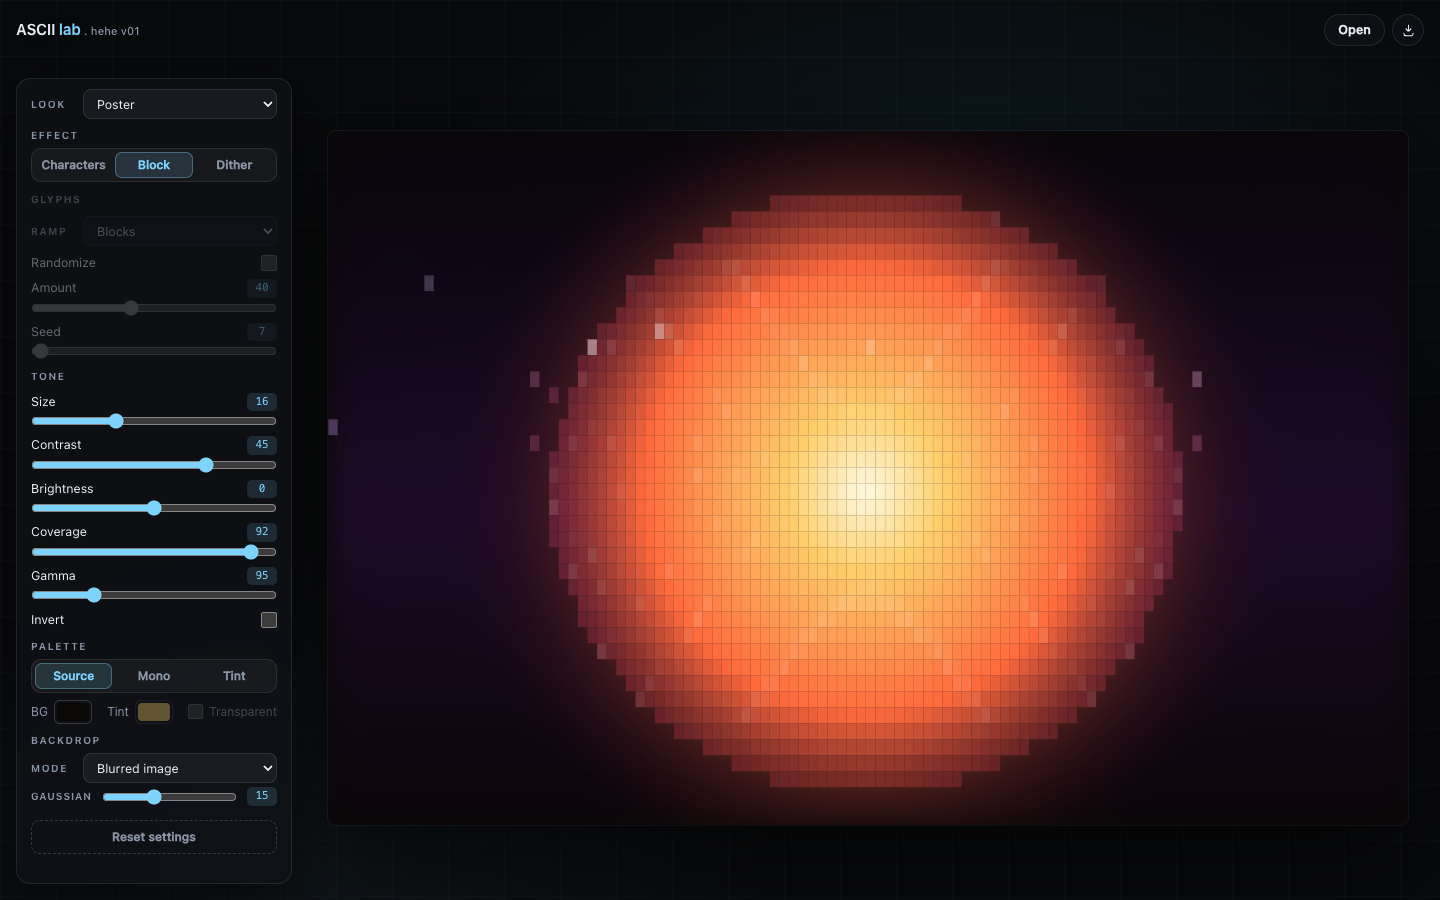
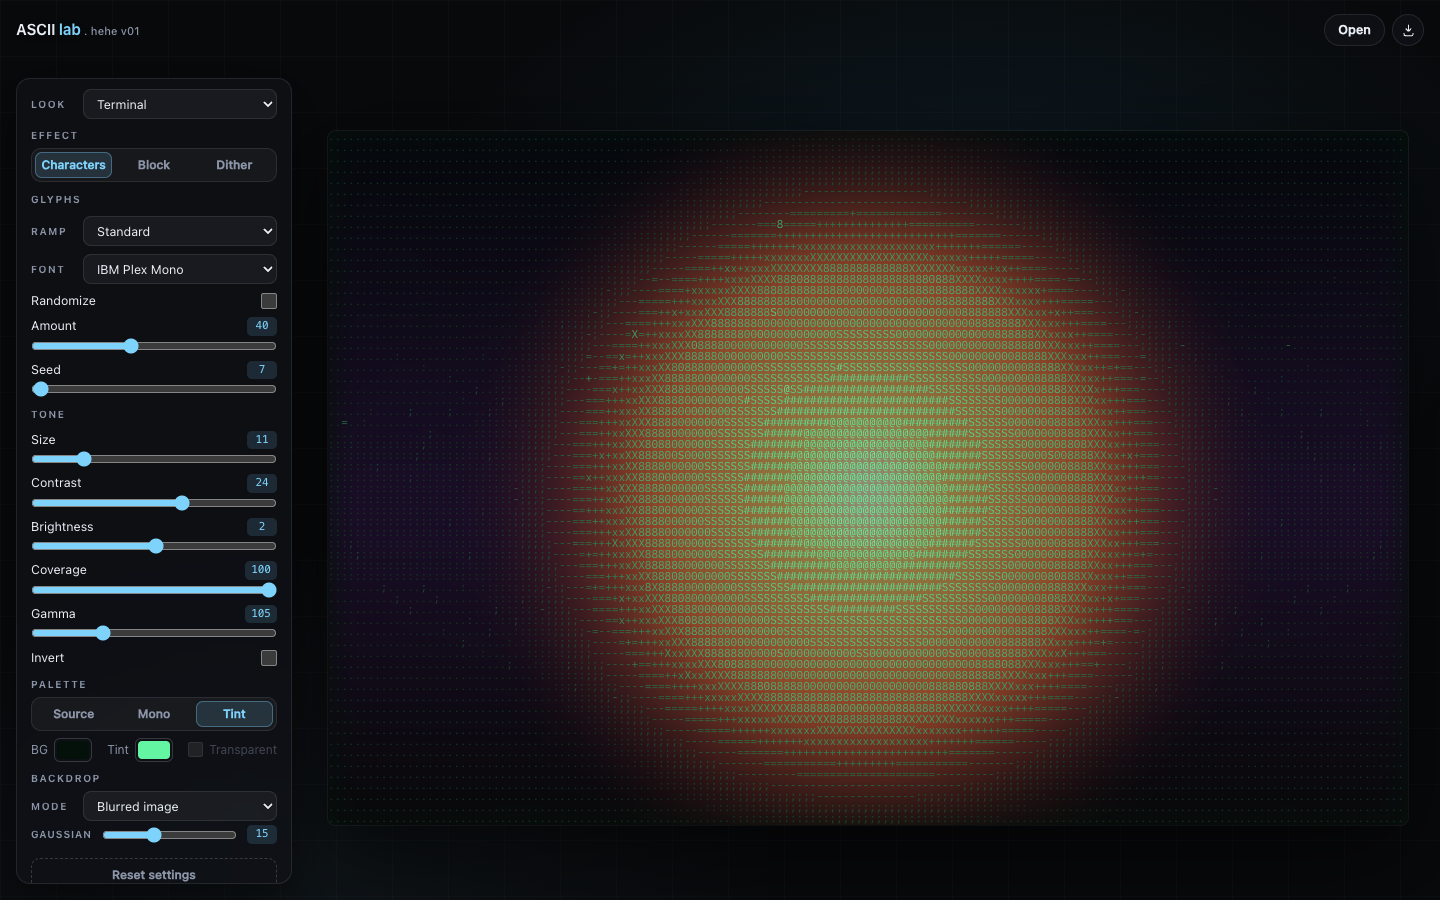
Add glyph font switch so the bundled IBM Plex Mono is visible
The font was already embedded and used by the Characters effect, but the
panel gave no hint. A Font row in Glyphs makes it explicit and lets you
compare against system mono; SVG exports skip the embedded face when
system mono is selected.

diff --git a/index.html b/index.html
@@ -702,6 +702,14 @@
         </select>
       </div>
 
+      <div class="inline-field">
+        <label for="glyphFont">Font</label>
+        <select class="select" id="glyphFont">
+          <option value="plex">IBM Plex Mono</option>
+          <option value="system">System mono</option>
+        </select>
+      </div>
+
       <label class="switch-row" for="randomize">
         <span>Randomize</span>
         <input type="checkbox" id="randomize" data-flag="randomize">
@@ -810,6 +818,8 @@
 
   /* IBM Plex Mono 400 (latin, woff2) - SIL OFL 1.1, see docs/IBM-Plex-Mono-OFL.txt */
   const GLYPH_FONT = '"IBM Plex Mono", ui-monospace, "SF Mono", Menlo, monospace';
+  const GLYPH_FONT_SYSTEM = 'ui-monospace, "SF Mono", Menlo, monospace';
+  const glyphFamily = (state) => (state && state.glyphFont === 'system' ? GLYPH_FONT_SYSTEM : GLYPH_FONT);
[1 lines of base64/hex data omitted]
 
   const RAMPS = [
@@ -826,6 +836,7 @@
     effect: 'chars',
     ramp: 'standard',
     chars: '@#S08Xx+=-;:.',
+    glyphFont: 'plex',
     size: 11,
     contrast: 20,
     brightness: 0,
@@ -1196,7 +1207,7 @@
     const effect = state.effect || 'chars';
     const scaled = effect === 'dither';
     const fontPx = Math.max(3, state.size * unit);
-    const font = `${fontPx}px ${GLYPH_FONT}`;
+    const font = `${fontPx}px ${glyphFamily(state)}`;
 
     paintBackdrop(ctx, image, state, canvas.width, canvas.height, unit);
     ctx.font = font;
@@ -1254,7 +1265,7 @@
     const effect = state.effect || 'chars';
     const scaled = effect === 'dither';
     const fontPx = Math.max(3, state.size * unit);
-    const font = `${fontPx}px ${GLYPH_FONT}`;
+    const font = `${fontPx}px ${glyphFamily(state)}`;
     const cap = scaled ? MAX_SCALED_CELLS : MAX_CELLS;
 
     let cellW = Math.max(2, measureSvgCell(font));
@@ -1292,8 +1303,10 @@
 
       parts.push('<g>');
       if (textGroup) {
-        parts.push(`<defs><style>@font-face{font-family:'IBM Plex Mono';font-style:normal;font-weight:400;src:url(data:font/woff2;base64,${IBM_PLEX_MONO}) format('woff2');}</style></defs>`);
-        parts.push(`<g font-family="${GLYPH_FONT.replace(/"/g, "'")}" font-size="${fixed(fontPx)}" text-anchor="middle" dominant-baseline="central">`);
+        if (state.glyphFont !== 'system') {
+          parts.push(`<defs><style>@font-face{font-family:'IBM Plex Mono';font-style:normal;font-weight:400;src:url(data:font/woff2;base64,${IBM_PLEX_MONO}) format('woff2');}</style></defs>`);
+        }
+        parts.push(`<g font-family="${glyphFamily(state).replace(/"/g, "'")}" font-size="${fixed(fontPx)}" text-anchor="middle" dominant-baseline="central">`);
       }
 
       if (effect === 'dither') {
@@ -1369,6 +1382,7 @@
   const panelGrip = document.getElementById('panelGrip');
   const glyphGroup = document.getElementById('glyphGroup');
   const rampSelect = document.getElementById('ramp');
+  const glyphFontSelect = document.getElementById('glyphFont');
   const presetSelect = document.getElementById('preset');
   const bgColor = document.getElementById('bgColor');
   const tintColor = document.getElementById('tintColor');
@@ -1636,10 +1650,12 @@
     if (!preset) return;
     const backdrop = state.backdrop;
     const backdropBlur = state.backdropBlur;
+    const glyphFont = state.glyphFont;
     Object.assign(state, DEFAULT_STATE, preset);
     state.chars = rampById(state.ramp).chars;
     state.backdrop = backdrop;
     state.backdropBlur = backdropBlur;
+    state.glyphFont = glyphFont;
     state.preset = id;
     syncControls();
     requestRender();
@@ -1669,6 +1685,7 @@
     }
 
     rampSelect.value = state.ramp;
+    glyphFontSelect.value = state.glyphFont;
     glyphGroup.disabled = state.effect !== 'chars';
 
     for (const input of panel.querySelectorAll('input[data-key]')) {
@@ -1776,7 +1793,7 @@
     const effect = state.effect || 'chars';
     const scaled = effect === 'dither';
     const fontPx = Math.max(3, state.size);
-    const font = `${fontPx}px ${GLYPH_FONT}`;
+    const font = `${fontPx}px ${glyphFamily(state)}`;
     const cap = scaled ? MAX_SCALED_CELLS : MAX_CELLS;
 
     let cellW = Math.max(2, measureSvgCell(font));
@@ -1911,6 +1928,10 @@
       } else if (target === rampSelect) {
         state.ramp = target.value;
         state.chars = rampById(state.ramp).chars;
+        markCustom();
+        requestRender();
+      } else if (target === glyphFontSelect) {
+        state.glyphFont = target.value === 'system' ? 'system' : 'plex';
         markCustom();
         requestRender();
       } else if (target === backdropSelect) {

diff --git a/README.md b/README.md
@@ -20,7 +20,7 @@ Most ASCII converters ship a build step, a CDN dependency or an upload. This one
 - **Palettes** — source colours, monochrome, or a duotone tint.
 - **Canvas colours** — custom background and transparent output for PNG and SVG.
 - **Backdrop modes** — solid black, or a blurred and dimmed copy of the source image behind the glyphs, with an adjustable Gaussian blur.
-- **Bundled font** — characters use IBM Plex Mono, embedded in the HTML so glyphs and SVG exports match offline.
+- **Font choice** — characters use bundled IBM Plex Mono by default, with a system-mono option; the font is embedded in the HTML so glyphs and SVG exports match offline.
 - **Exports** — PNG (1× / 2×), JPG, SVG, plus plain-text ASCII (.txt) and copy-to-clipboard.
 - **Comfortable viewing** — drag & drop, wheel zoom, pinch zoom, pan, double-click to reset.
 - **Responsive** — a floating side panel on desktop, a bottom sheet on mobile.
